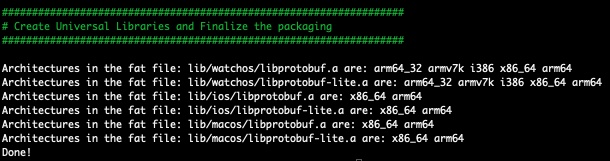
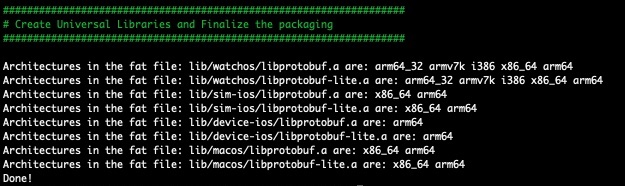
Added iOS arm64 simulator target Build a separate fat binary for iOS simulator and a separate iOS arm64 binary

diff --git a/README.md b/README.md
@@ -9,12 +9,14 @@ Build the runtime Google Protobuf Buffers v3.6.1 C++ libraries (libprotoc.a, lib
 * macOS (arm64)
 * iOS Device (arm64) 
 * iOS Simulator (x86_64)
+* iOS Simulator (arm64)
 * WatchOS device (armv7k)
 * WatchOS device (arm64_32)
 * WatchOS simulator (i386)
 * WatchOS simulator (x86_64)
 * WatchOS simulator (arm64)
-* iOS Fat Mach-O
+* iOS Simulator Fat Mach-O
+* iOS arm64 Mach-O
 * WatchOS Fat Mach-O
 
 Just clone this repo and run `./build-protofbuf.sh`
